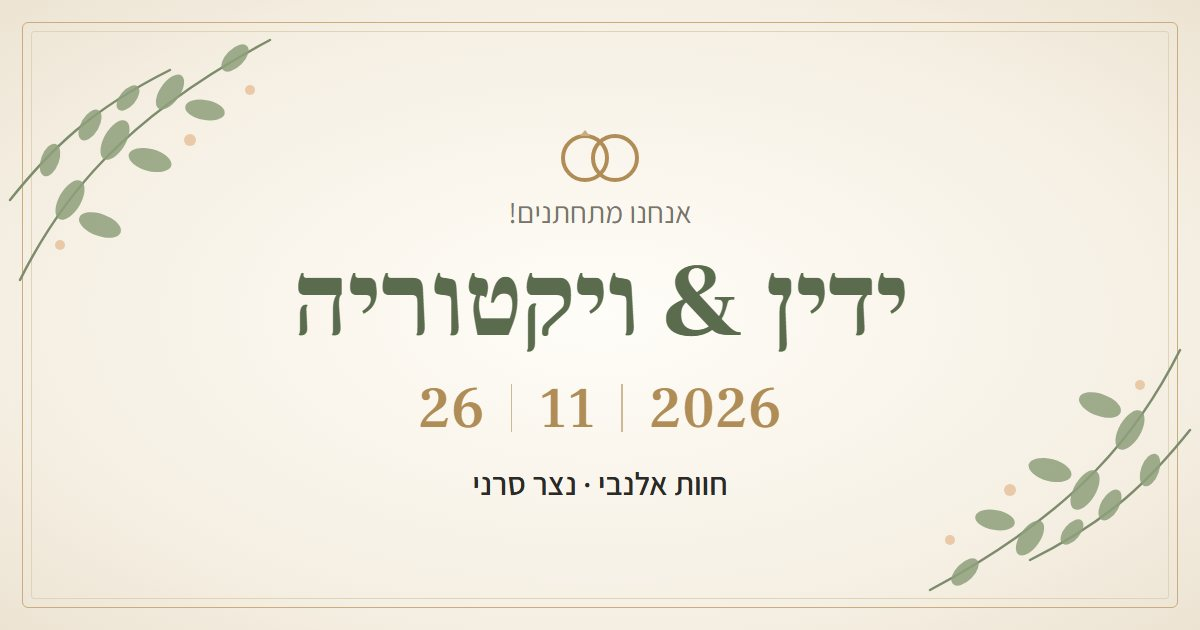
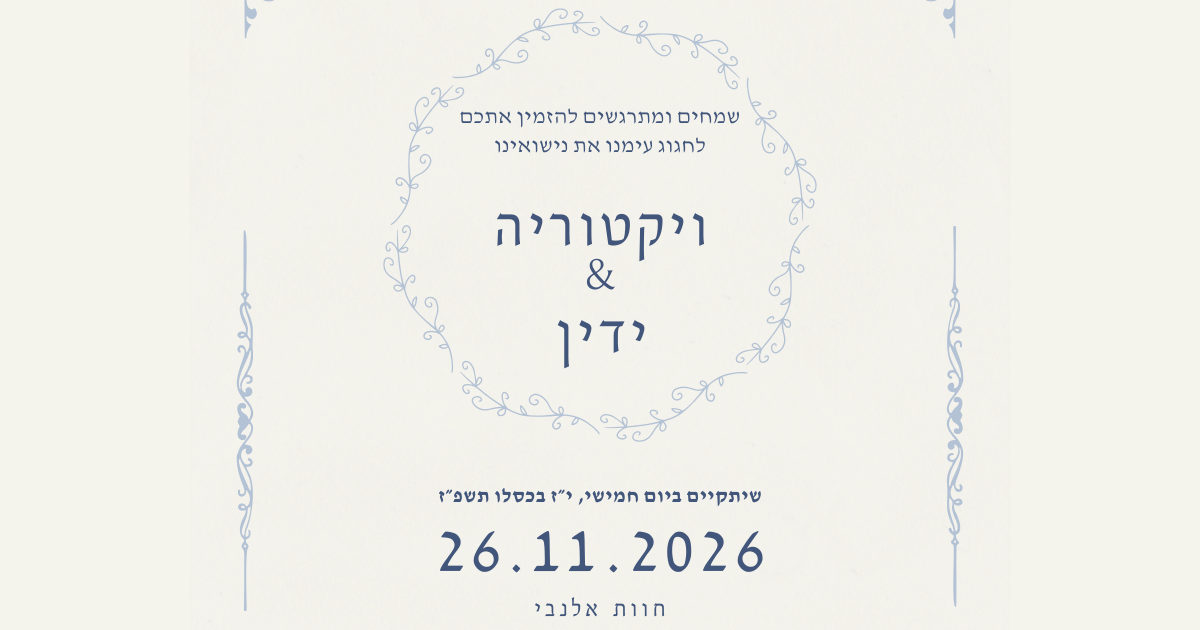
Use final invitation design: page image, WhatsApp preview, blue palette, date fix

diff --git a/index.html b/index.html
@@ -6,7 +6,7 @@
 <title>החתונה של ידין וויקטוריה</title>
 <!-- התצוגה המקדימה שוואטסאפ מציג מעל הקישור -->
 <meta property="og:title" content="ידין & ויקטוריה מתחתנים 💍">
-<meta property="og:description" content="26.11.2026 · חוות אלנבי, נצר סרני · לחצו לאישור הגעה">
+<meta property="og:description" content="26.11.2026 · חוות אלנבי, נצר סירני · לחצו לאישור הגעה">
 <!-- כתובת מלאה (לא יחסית!) לתמונה. נוצרה מ-tools/og-card.html -->
 <meta property="og:image" content="https://zoeykulp.github.io/wedding-rsvp/invite.jpg">
 <meta property="og:image:type" content="image/jpeg">
@@ -17,15 +17,15 @@
 <link href="https://fonts.googleapis.com/css2?family=Frank+Ruhl+Libre:wght@500;700&family=Assistant:wght@400;600;700&display=swap" rel="stylesheet">
 <style>
   :root {
-    --bg: #f5f0e8;
+    --bg: #eef0f3;
     --card: #fffdf9;
     --ink: #2b2a27;
     --muted: #7a756c;
-    --line: #e6dfd3;
-    --accent: #5b6b4e;
+    --line: #dde2ea;
+    --accent: #42567b;
     --accent-ink: #ffffff;
-    --accent-soft: #e9ede3;
-    --gold: #b08d57;
+    --accent-soft: #e6ebf3;
+    --gold: #8a9cbd;
     --danger: #a14a3b;
   }
   * { box-sizing: border-box; }
@@ -222,11 +222,11 @@
     API_URL: 'https://script.google.com/macros/s/AKfycby4lBLsoiZYVjXAd-NYE6aGGlSZyExb31CJywgy9NwZ0n9NhZSjGgX4Q7G__cmL5rdeHQ/exec',
     COUPLE: 'ידין & ויקטוריה',
     DATE_PARTS: ['26', '11', '2026'],
-    DATE_LINE: 'יום חמישי · ט״ז בכסלו תשפ״ז',
-    VENUE_TEXT: 'חוות אלנבי · נצר סרני',
+    DATE_LINE: 'יום חמישי · י״ז בכסלו תשפ״ז',
+    VENUE_TEXT: 'חוות אלנבי · נצר סירני',
     RECEPTION_TIME: '19:30', // אם השדות ריקים, שורת השעות לא מוצגת
     CHUPPAH_TIME: '20:30',
-    INVITE_IMAGE: '',   // אופציונלי: תמונת ההזמנה המעוצבת, למשל 'invite.jpg'
+    INVITE_IMAGE: 'invitation.jpg', // ההזמנה המעוצבת. כשיש תמונה, היא מחליפה את הכותרת הטקסטואלית
     WAZE_URL: 'https://waze.com/ul?navigate=yes&q=' + encodeURIComponent('חוות אלנבי נצר סרני'),
   };
   // ================================================================
@@ -248,6 +248,7 @@
   if (CONFIG.INVITE_IMAGE) {
     $('#invite-img').src = CONFIG.INVITE_IMAGE;
     $('#invite-img').hidden = false;
+    document.querySelector('.hero').hidden = true;
   }
 
   function show(name) {
